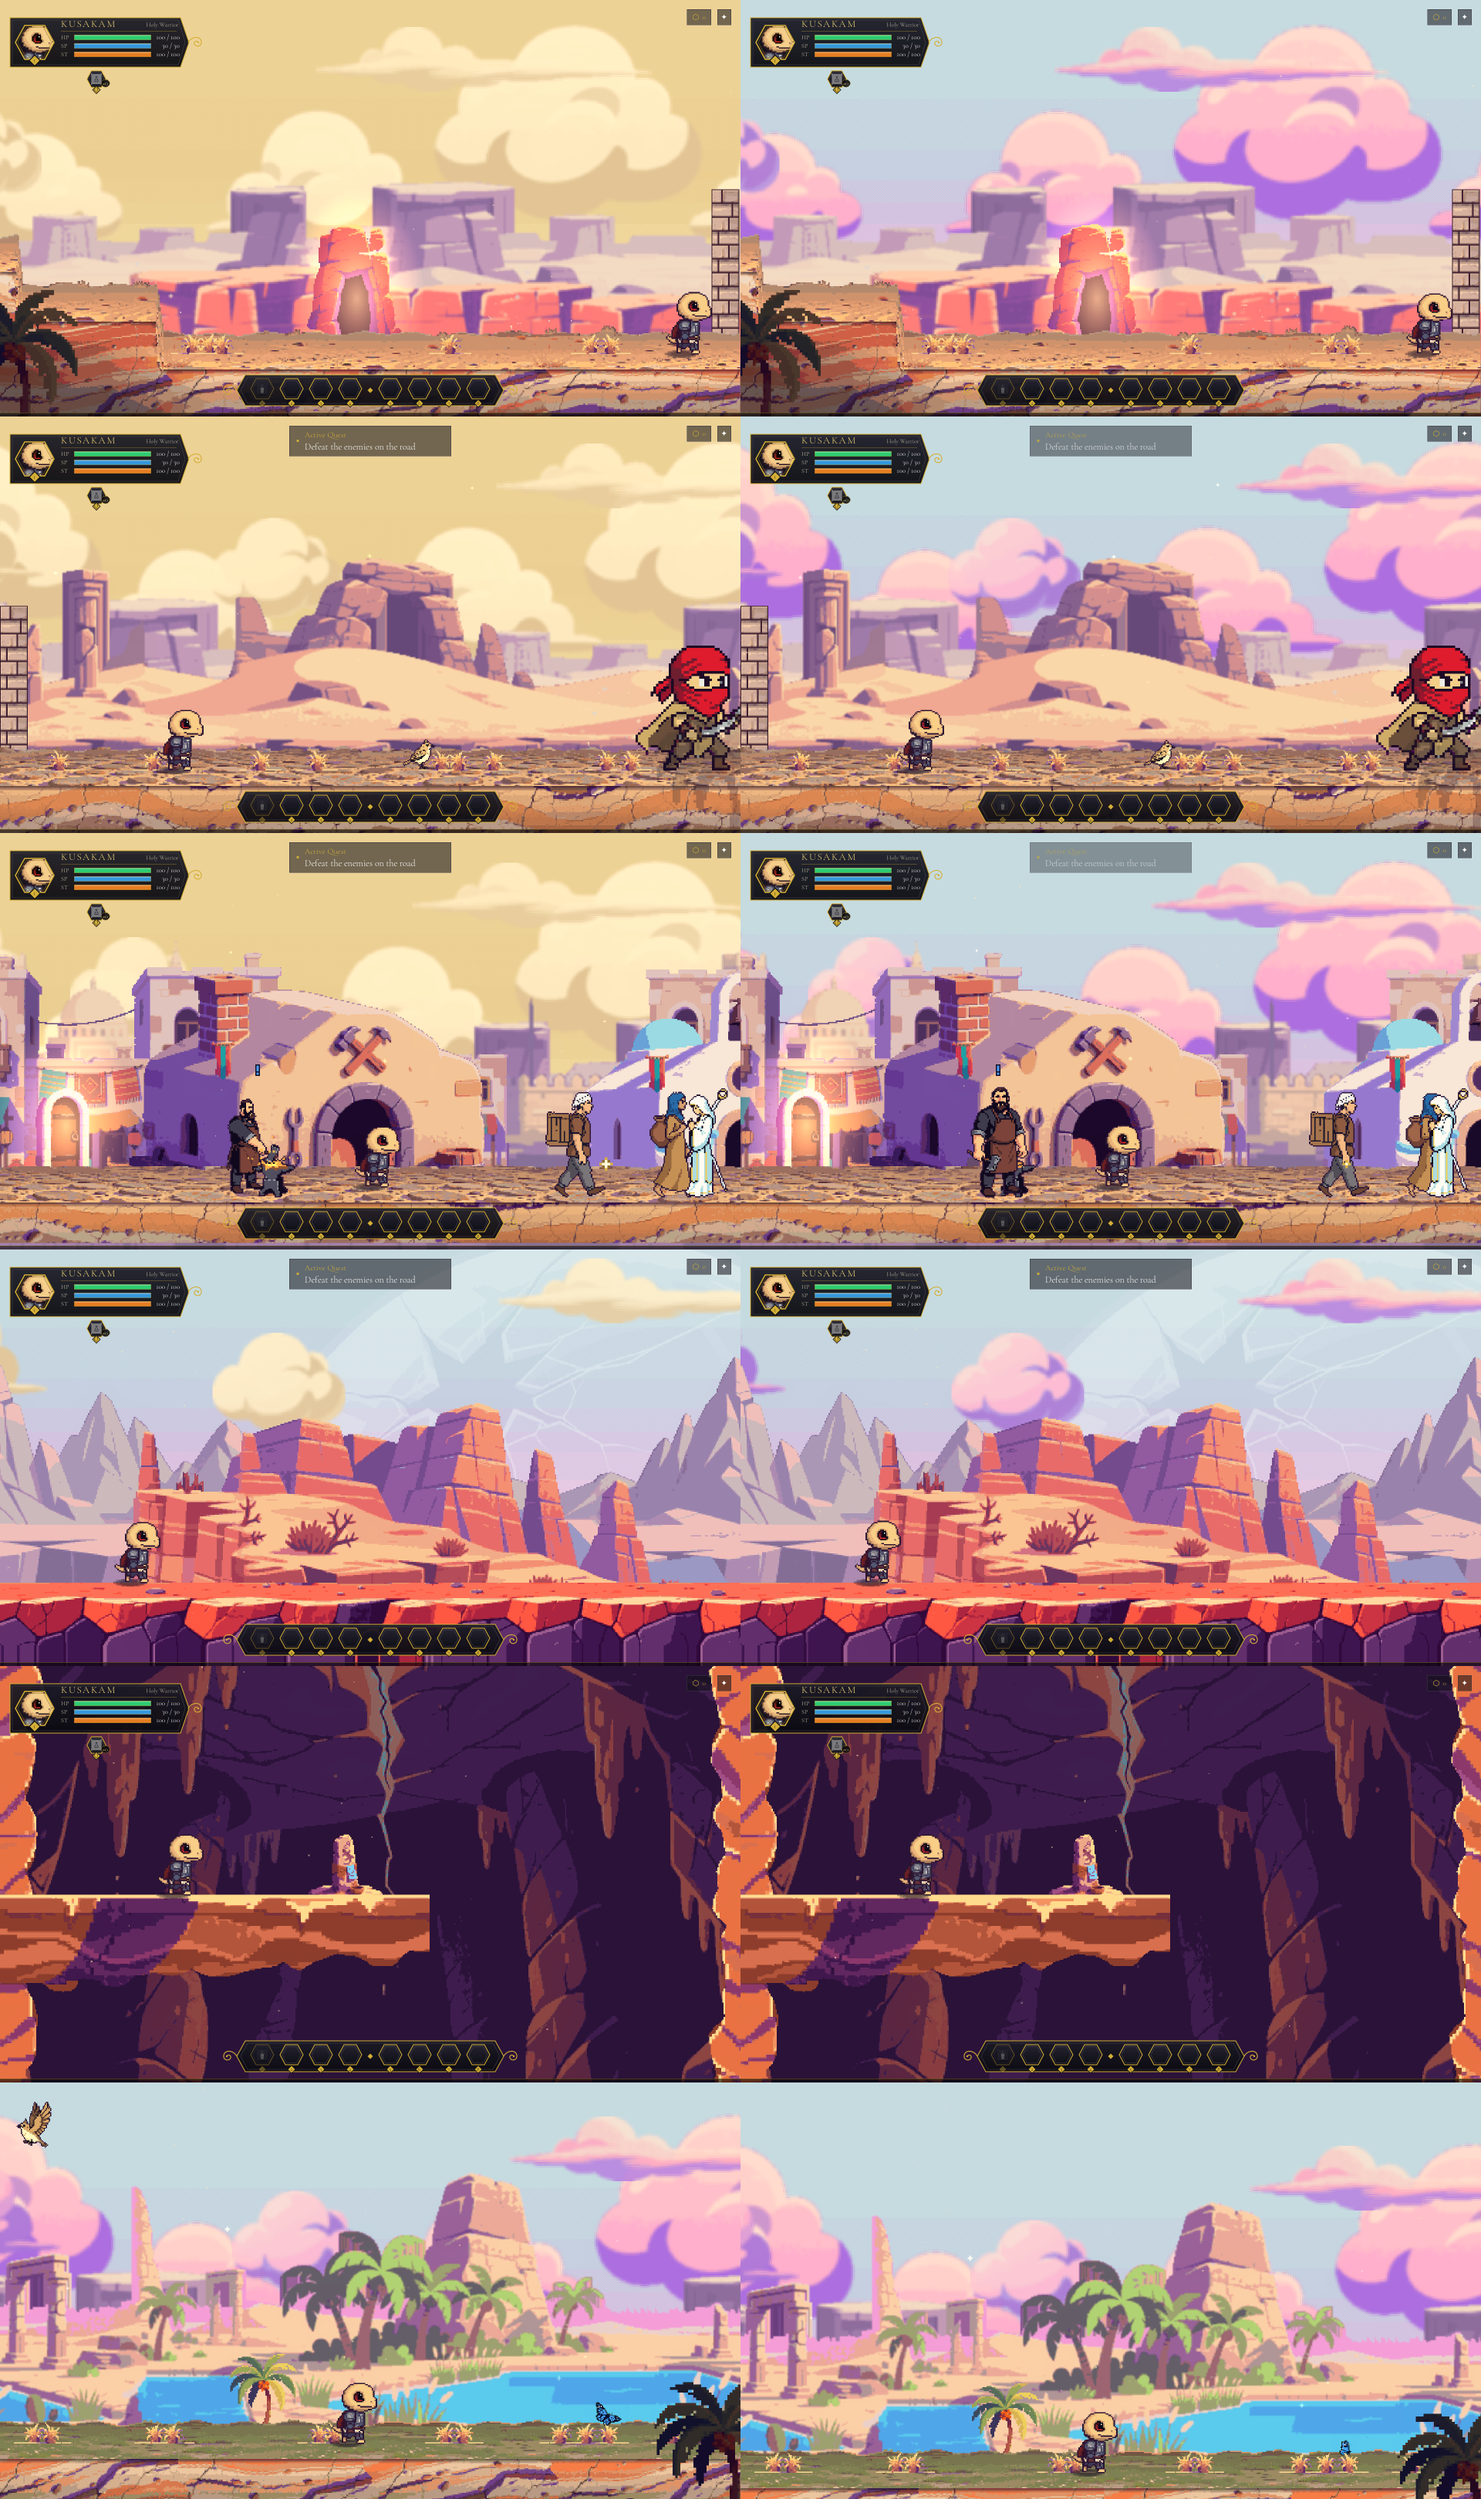
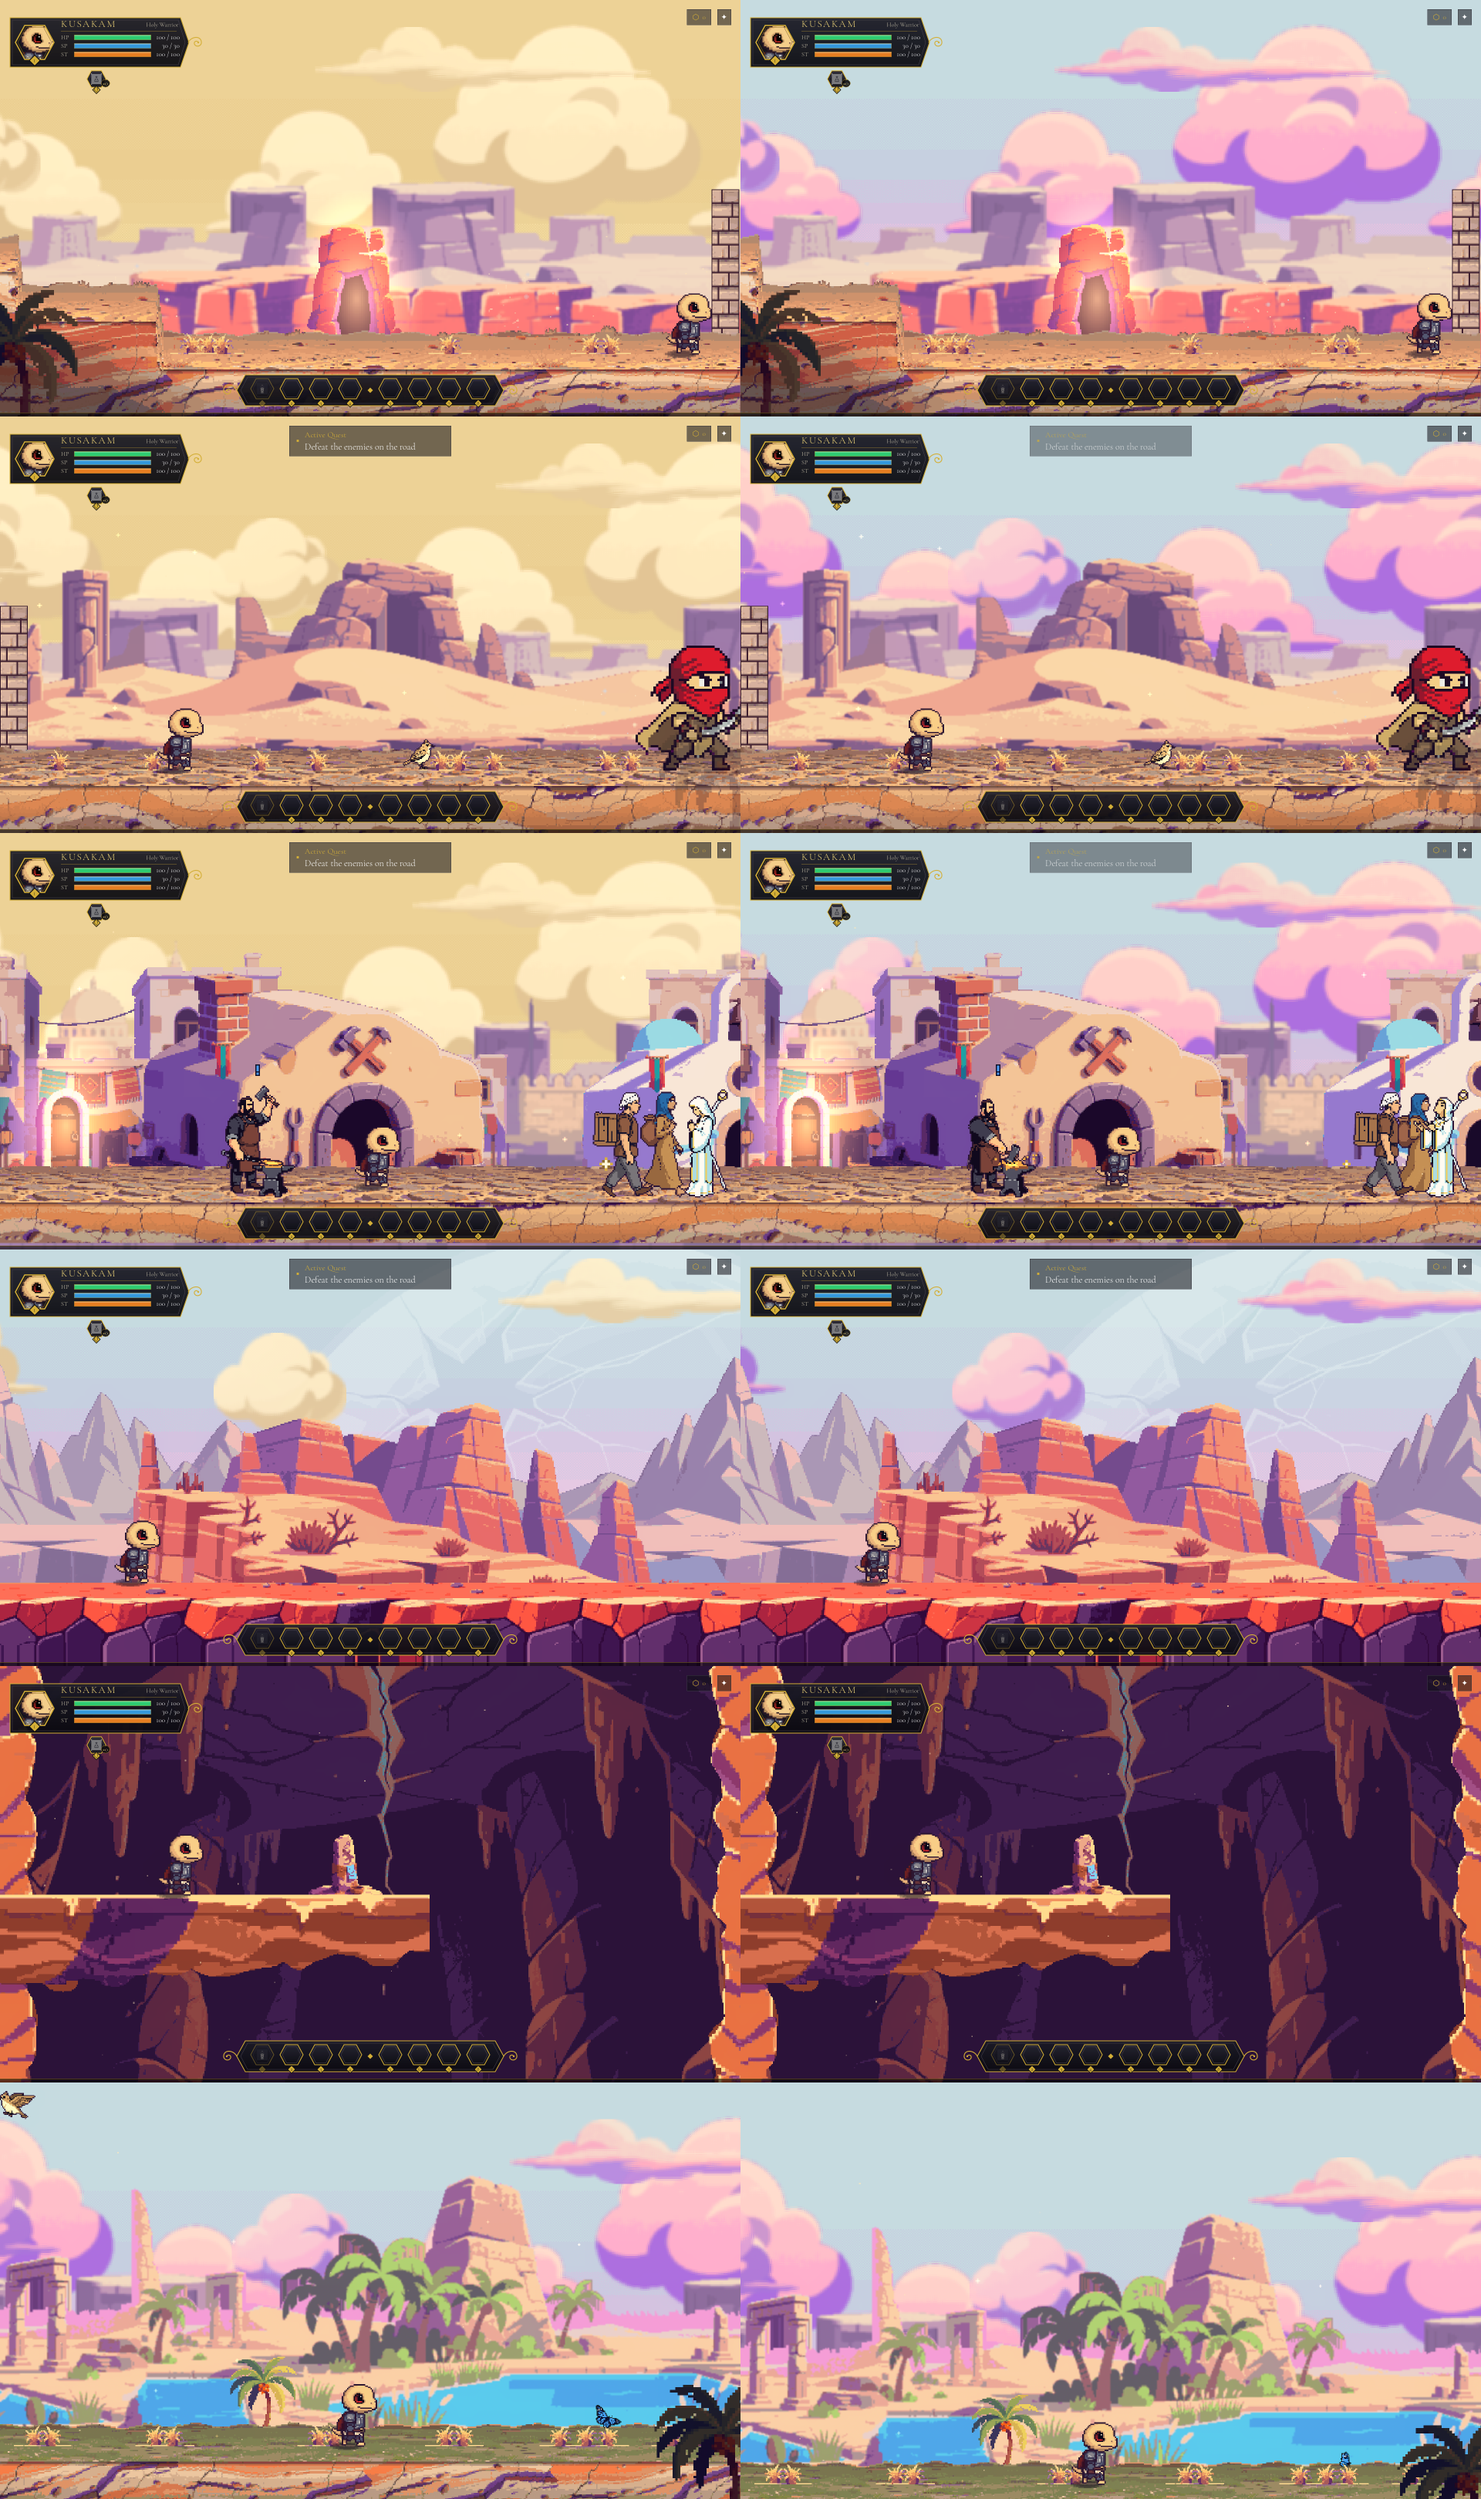
integrate-32: SkyTint keys the painted cave-under-bridge wall (wire-backdrops x yellow-sky), new scripts' .uid files, report with the full-suite line
Claude-Session: https://claude.ai/code/session_01A2gnDWaoeJGbj3GPH4dnCF

diff --git a/design/cloud_reports/integrate-32.md b/design/cloud_reports/integrate-32.md
@@ -1,0 +1,55 @@
+---
+type: report
+branch: cloud/integrate-32
+base: feature/backlog @ origin 2026-10-28 09:5x
+date: 2026-10-28
+---
+
+# integrate-32
+
+- **Merged (7):** elite-reach, enemy-sizes, ui-bugs-205-206, critter-tweaks, yellow-sky, skill-art-wire, wire-backdrops (to its report `b53f4862`). Not merged, as briefed: wire-backdrops-2+, lab-main-path, rooms-city, rooms-lab.
+- **B203:** one root fix kept, **enemy-sizes'** `DefaultEnemy._grown_range`. Its test `verify_hit_areas` [1b] covers every live melee kind (ordinaries and elites, small and medium) at its grown scale, B187's `kinds.<kind>.scale` included. elite-reach's [10] covers only the elites, and its `grow = elite.scale` was wrong once B187 landed. elite-reach's [10] is kept as an extra test, now with `grow = kind.scale × elite.scale`, and it passes on enemy-sizes' fix (a strike started at `attack_range` lands).
+- **IDs:** D866 enemy sizes + B203 rule, D867 M map grid only, D868 critter tweaks (D-ct1), D869 movement-skill art (D-SAW), D870–D873 wire-backdrops (were D864–D867). D864 (yellow sky) is marked Built. B207 City pigeons (B-ct1), B208 empty `verify_combat_flow` [2e] check, B209 painted road skies stay blue. Q125 ledges ramp vs steps (non-blocking, default the bent ramp). `world_scale.json` row `elite_human` (144 art = 216 world, D859).
+- **Fixed:** B187, B203, B205, B206; B186 partly.
+- **Task B:** verify_archer, verify_mayor_hall and verify_combat_player now run on game time (`Kit.until` / `Kit.wait` in physics steps; archer has a game clock with `time_scale`). verify_camera_transitions [7] gets a defined start (a new game's Canyon, the camp fight switched off). Both camera tests are `## SERIAL`. A shader error from yellow-sky is fixed (`TEXTURE` passed to a function).
+- **Full suite:** `SUITE: 6 FAIL in 28 min 27 s, J=4` (nproc 4). After fixes, the failures re-run alone: verify_map_geometry and verify_quiet_transitions PASS (my `--import` predated wire-backdrops' new textures, so `gen_ledges_ramp.png` was missing); verify_yellow_sky PASS (B209-like merge gap fixed, below); verify_city_gates_raid PASS (a J=4 flake in [7], see Left). verify_camera_transitions and verify_camera_rooms PASS in their serial slot (386 s, 289 s).
+- **Still red, balance (waits on Q114/Q116–Q118):** verify_difficulty 17 FAIL and verify_lab_boss 2 FAIL. Both are row for row identical to `origin/feature/backlog` (diffed).
+
+## Per branch
+
+| branch | conflicts | IDs | tests |
+|---|---|---|---|
+| elite-reach | none (first) | its D-ID not registered: the fix it describes was replaced by enemy-sizes' (above) | — |
+| enemy-sizes | `DefaultEnemy.gd` (took enemy-sizes'), `verify_enemy_variety.gd` [1] small-size hunk (took enemy-sizes'), [10] grow adapted | D866 (its «D862») | verify_enemy_variety, verify_hit_areas, verify_combat_enemies ALL PASS after the merge |
+| ui-bugs-205-206 | none | D867 | in the suite |
+| critter-tweaks | none | D868 ← D-ct1, B207 ← B-ct1 (report rewritten) | in the suite |
+| yellow-sky | none | D864 Built | in the suite; see the shader fix |
+| skill-art-wire | none | D869 ← D-SAW (report rewritten) | in the suite |
+| wire-backdrops | none | D870–D873 ← D864–D867 (report rewritten; no code refers to them) | in the suite |
+
+Room fix not done here (the room chain owns `Maps/*.tscn`): B207.
+
+## Task B
+
+- **verify_archer** (5 FAIL under J=4 on feature/backlog, ALL PASS alone on both): its deadlines and «arrow 380–560 ms after the glint» read `Time.get_ticks_msec()`, and its pauses were process timers. Now `clock_ms` adds `1000 × Engine.time_scale / ticks` on every `physics_frame`, the clock the game's own timers run on (hitstop drops time_scale to 0.05), and pauses are `Kit.wait` (a physics-step timer). No bound changed.
+- **verify_mayor_hall** (hung): a wall-clock `_until` gave up early under load. `_snap()` then read a null hall, and the SCRIPT ERROR killed the coroutine before `quit()`, so the test hung until the 180 s kill. `_until` is now `Kit.until`, the 30 s loop counts physics steps, and timers are `Kit.wait`. The real-time Tab hold (`ignore_time_scale` timers) is unchanged.
+- **verify_combat_player** (B186): the heavy-recovery block time counted wall ms and is now physics steps; timers are `Kit.wait`. The game's timers (`PlayerCombat`, `PlayerStamina`) are all in `_physics_process`.
+- **input_kit.gd:** `until(tree, cond, max_s)` and `wait(tree, s)`: the shared helper B186 asked for. The other `_until` copies (canyon_exit, city_life, …) are still open in B186.
+- **verify_camera_transitions** failed alone on the merged tree, and its [7] also failed on the base:
+  - «Canyon: the camera follows the run (0 moving frames)»: after [4]/[5] the Canyon is in RELIC_PICKUP. The run right walks into the bridge-descent cutscene, which detaches the camera. [7] now enters the Canyon with a new game's quest flags and restores them after.
+  - «reaching the right limit…»: the Bandit Camp fight spawned mid-run (`Fight_CampTrigger`), and its bodies stopped the hero at x 631 / 905. [7] now turns the trigger's monitoring off, as `_go` already does for MayorHall's QueueTrigger. Fighters already out lose their collision layer and mask. `_set_collisions_disabled` does not stop them: the body still blocked the hero.
+- **verify_camera_rooms** (AlchemistStore 41.7 px under J=4, PASS alone): it measures the camera's per-frame move. Smoothing runs on the real process delta while the hero moves in physics steps, so the number depends on frame time. Both camera tests are now `## SERIAL` (allowed for real-time tests). The 12 px bound is unchanged.
+- **Shader:** yellow-sky's `depth_blur.gdshaderinc` passed `TEXTURE` into a function. Godot 4.6 printed `Condition "!actions.custom_samplers.has(function->arguments[j].tex_builtin)"` on every room load (42 in one camera run). It is now a `#define DEPTH_BLUR_SAMPLE` macro. The error is gone, and a windowed GL capture (`capture_yellow_sky`, `design/shots/yellow_sky.png` re-shot) shows the cream clouds as before.
+- Under 6 tests on 4 cores, archer, mayor_hall, combat_player, combat_flow and scripts_compile were ALL PASS.
+
+## Found while merging
+
+- **verify_yellow_sky** CaveUnderBridge: yellow-sky keyed the cave's old placeholder far wall (`LizardCave/gen_far.png`); wire-backdrops replaced it with the painted `BridgeCave/gen_wall.png`, whose mouth has the canyon sky (its README). Added to `SkyTint.BAKED_SKY`; the re-shot cave row is identical left and right (rock untouched by the keyed tint).
+
+- **B209:** in the re-shot `yellow_sky.png`, MountainPath's painted sky (wire-backdrops) stays blue-grey with the yellow sky on. SkyTint's room list predates the painted planes. Filed; the fix belongs with the room chain or a SkyTint follow-up.
+
+## Left
+
+- B207 (room chain), B208, B209, B186's other `_until` copies, Q125 (non-blocking).
+- `verify_city_gates_raid` [7] «the hero stands on the floor under the arrival» (y 344 → 360) failed twice under load (6 tests on 4 cores, and the J=4 suite), PASS alone; B204's earlier fix did not cover it. Not fixed here; noted under B186.
+- Balance reds: verify_difficulty, verify_lab_boss (Q114, Q116–Q118).

diff --git a/design/BUGS.md b/design/BUGS.md
@@ -213,7 +213,7 @@ the history, this note keeps only what is open.
 >
 > **From the test audit (2026-10-27, [[test_audit_2026-10-27]]):**
 > - **B185** (fixed, `57774570`) — `Cutscene._release()` set `Engine.time_scale = 1.0`, wiping the scale `TimeManager` holds (hitstop, a test's SPEED). In the game TimeManager holds 1.0, so players saw nothing; `verify_masher` [4] and [6] ran after the boss intro at 1× with a 1/240 s physics step the game never uses. Now it restores `TimeManager.time_scale`.
-> - **B186** (partly fixed, integrate-32: `input_kit.gd` `Kit.until` / `Kit.wait` count physics steps; `verify_archer` (a game clock with time_scale), `verify_mayor_hall`, `verify_combat_player` use them; `verify_camera_transitions` / `verify_camera_rooms` are `## SERIAL`; the other `_until` copies are still open) (open, tests) — load flakes: a test waits for a physics result with a wall-clock deadline (`_until` copies in 11 scripts) or a process-time `create_timer`, so a busy machine cuts the wait short. Seen: `verify_combat_feel` [2] (`create_timer(1.2)` for a slide → wait 72 physics frames), `verify_combat_flow` [2c] (B170 may be the same), `verify_masher` [7] idle 1.08–1.46 s vs 1.0 s and [3] once. Fix: one shared `_until` in `input_kit.gd` that counts physics steps (as `verify_city_gates_raid` now does, `f9eca192`); until then rerun a FAIL alone before calling it a regression. integrate-30: `verify_weapon_animations` (strike-frame sample) and `verify_hero_death` [1] now count physics steps; `verify_combat_feel` [2] was a real defect (B194), not this. integrate-31: `verify_combat_player` [2] «each refusal flashes the ST row» (1 of 2 under J=4 in the integrate-31, enemy-scaling, scaling-partial and hero-points-only suites; PASS alone): the dodge pressed 3 frames after the refused swing is buffered while `can_roll()` is false (`Player._try_roll`), so its refusal can land after the check.
+> - **B186** (partly fixed, integrate-32: `input_kit.gd` `Kit.until` / `Kit.wait` count physics steps; `verify_archer` (a game clock with time_scale), `verify_mayor_hall`, `verify_combat_player` use them; `verify_camera_transitions` / `verify_camera_rooms` are `## SERIAL`; the other `_until` copies are still open; `verify_city_gates_raid` [7] «stands on the floor under the arrival» still fails under J=4, PASS alone) (open, tests) — load flakes: a test waits for a physics result with a wall-clock deadline (`_until` copies in 11 scripts) or a process-time `create_timer`, so a busy machine cuts the wait short. Seen: `verify_combat_feel` [2] (`create_timer(1.2)` for a slide → wait 72 physics frames), `verify_combat_flow` [2c] (B170 may be the same), `verify_masher` [7] idle 1.08–1.46 s vs 1.0 s and [3] once. Fix: one shared `_until` in `input_kit.gd` that counts physics steps (as `verify_city_gates_raid` now does, `f9eca192`); until then rerun a FAIL alone before calling it a regression. integrate-30: `verify_weapon_animations` (strike-frame sample) and `verify_hero_death` [1] now count physics steps; `verify_combat_feel` [2] was a real defect (B194), not this. integrate-31: `verify_combat_player` [2] «each refusal flashes the ST row» (1 of 2 under J=4 in the integrate-31, enemy-scaling, scaling-partial and hero-points-only suites; PASS alone): the dodge pressed 3 frames after the refused swing is buffered while `can_roll()` is false (`Player._try_roll`), so its refusal can land after the check.
 >
 > **From `cloud/scale-exact` (R4, integrate-30; open, art lane, sizes from the exact chart H = 64 art px, [[world_scale_plan]]; the chart values stay a draft until Sapega's «ок»):**
 > - **B187** (fixed, `cloud/enemy-sizes`, D866, merged by integrate-32: per-kind `scale` in `enemy_variety.json`, adult humans 144 world px, no redraw; scale-exact B-new-1) — `enemy_bandit*`, `bandit_archer`, `shield_tower`, `bandit_brute`, `archer_heavy` sheets: Human enemies are 73.5–102 px. The exact chart wants 96 art = 144 px (D172 ×1.5), and the elites have no exact row yet. Fix: regenerate at 96 art.
